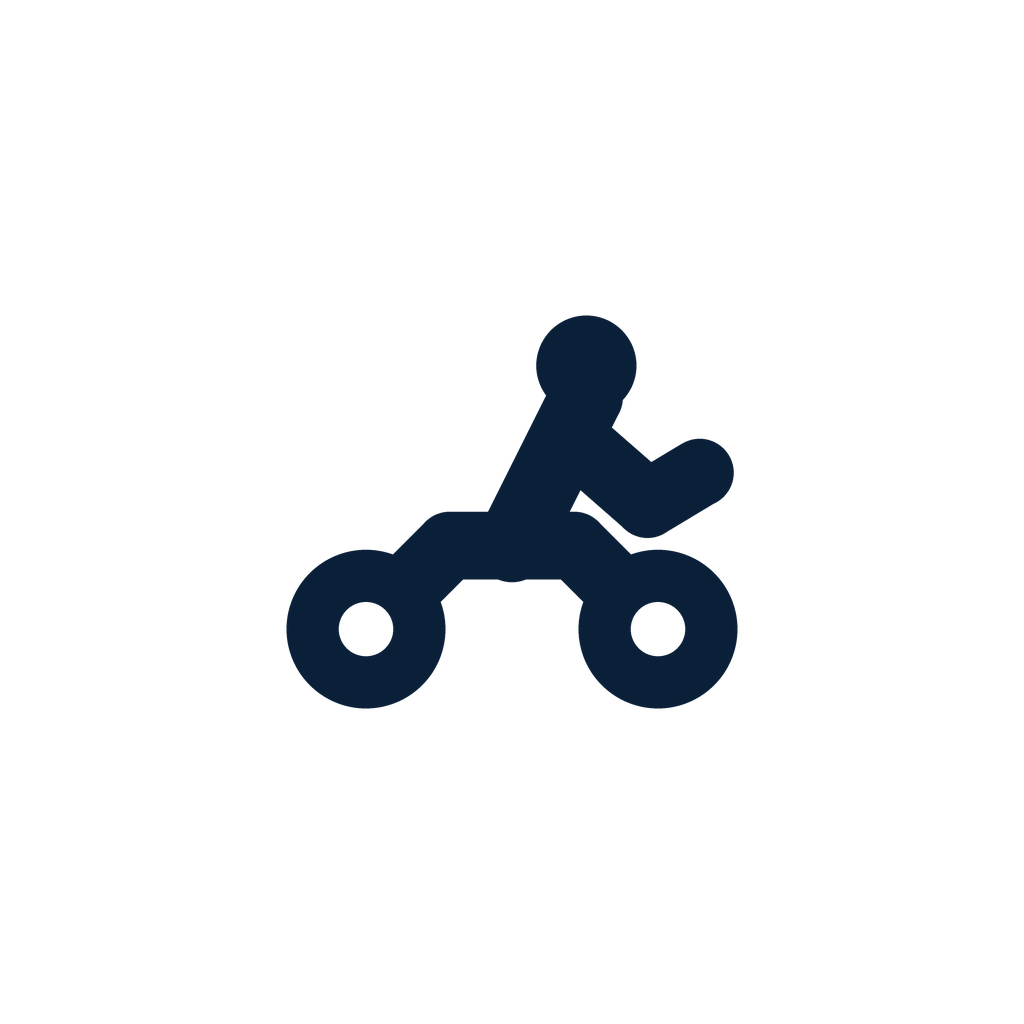
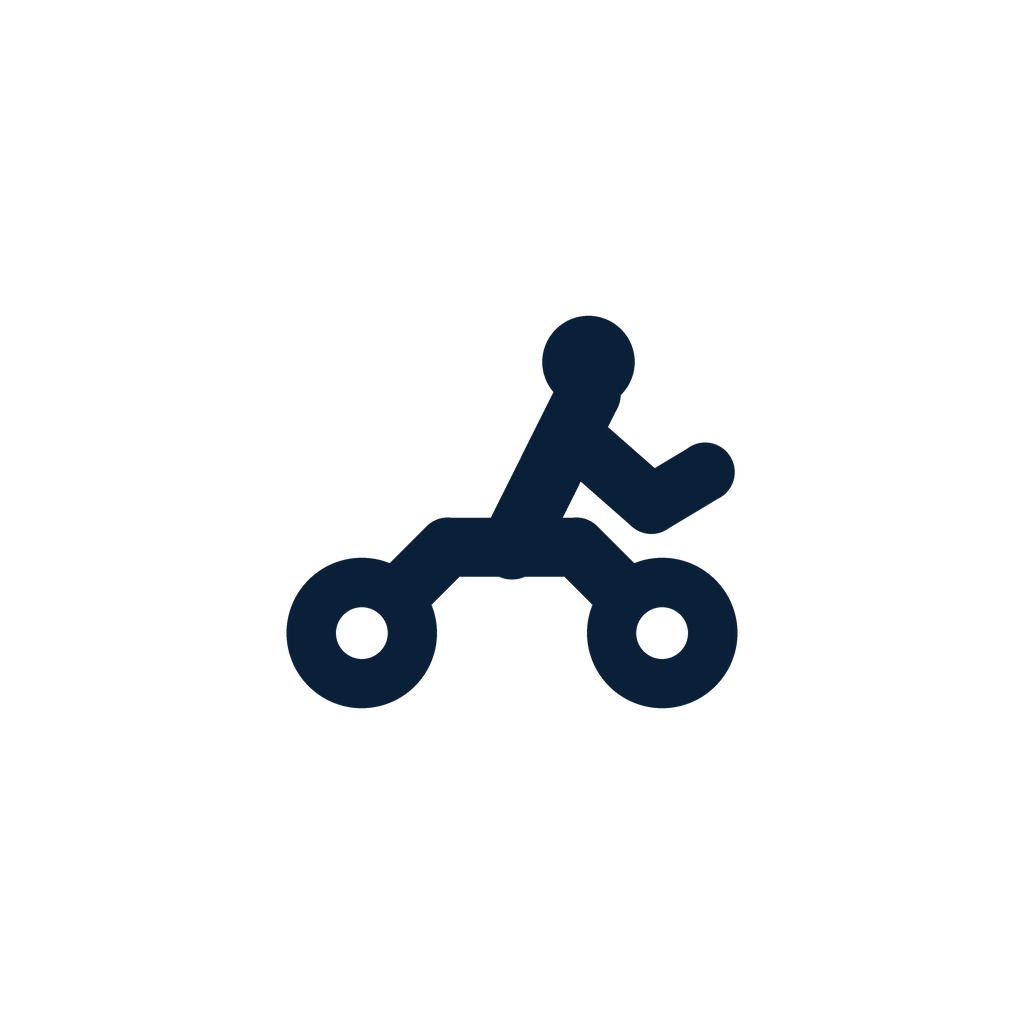
fix(brand): the mark goes to A3, the lighter weight, not just a smaller A4
I misread the instruction first time. "A3, 29%" is two things, and I only
did the second: A3 and A4 are the two stroke weights compared in the
"A3 Against A4" specimen on 29 August, not two sizes. A4 is
6.5 / 7.0 / 7.6 / 2.6 / 4.8 and is what shipped; A3 is
5.5 / 6.0 / 7.0 / 2.4 / 4.3, described there as "solid without being
heavy". The founder picked A3.

build_assets.py now cuts at A3 and all seven assets are regenerated and
installed across the three apps: icon, the three adaptive layers, both
splash marks and the favicon. The ink box moves from 43.2 x 37.66 to
42.0 x 36.56, so the website SVG gets the new viewBox along with the new
radii; the line coordinates are identical between the weights, only the
strokes and radii move.

Splash imageWidth stays at the 159 set earlier, which is the 29% half of
the same instruction.

NOT changed, and it needs a decision: components/SeirsLogoV2.tsx, which
renders the mark inside all three apps, is neither A3 nor A4. It is an
older drawing entirely: hollow wheels at r5 with crossed spoke lines,
where every other surface now uses solid wheels with punched hubs. So the
app header shows one okada and the splash behind it shows another.
Swapping it changes every screen, so it is the founder's call.

diff --git a/seirs-app/apps/seirs-website/src/components/SeirsLogo.tsx b/seirs-app/apps/seirs-website/src/components/SeirsLogo.tsx
@@ -72,14 +72,17 @@ function SeirsMark({
    * the same mark, which is the drift this file already suffers from with
    * its second navy.
    *
-   * Geometry is now identical to SeirsMarkBold in the apps: stroke 6.5,
-   * solid wheels r7.6 with r2.6 hubs, torso run to 15.94, head r4.8. The
+   * Geometry matches the cut assets: the A3 weight, stroke 5.5, solid
+   * wheels r7.0 with r2.4 hubs, torso 6.0, head r4.3. The founder compared
+   * A3 against A4 on a real phone on 2026-08-30 and took the lighter set;
+   * A4 was 6.5 / 7.0 / 7.6 / 2.6 / 4.8. Line coordinates are unchanged
+   * between the two weights, only the radii and stroke widths move. The
    * viewBox is cropped to the ink, which is why it is no longer 0 0 48 32
    * -- the stretched rider's head sits above y=0.
    */
-  const VB_X = 2.4, VB_Y = -6.06, VB_W = 43.2, VB_H = 37.66;
+  const VB_X = 3.0, VB_Y = -5.56, VB_W = 42.0, VB_H = 36.56;
   const height = size * (VB_H / VB_W);
-  const SW = 6.5;
+  const SW = 5.5;
 
   return (
     <svg
@@ -94,13 +97,13 @@ function SeirsMark({
         stroke={color} strokeWidth={SW} fill="none"
         strokeLinecap="round" strokeLinejoin="round"
       />
-      <circle cx={10} cy={24} r={7.6} fill={color} />
-      <circle cx={10} cy={24} r={2.6} fill={hubColor} />
-      <circle cx={38} cy={24} r={7.6} fill={color} />
-      <circle cx={38} cy={24} r={2.6} fill={hubColor} />
+      <circle cx={10} cy={24} r={7.0} fill={color} />
+      <circle cx={10} cy={24} r={2.4} fill={hubColor} />
+      <circle cx={38} cy={24} r={7.0} fill={color} />
+      <circle cx={38} cy={24} r={2.4} fill={hubColor} />
       <line x1={37} y1={12} x2={42} y2={9} stroke={color} strokeWidth={SW} strokeLinecap="round" />
-      <line x1={24} y1={16} x2={31.13} y2={1.74} stroke={color} strokeWidth={7} strokeLinecap="round" />
-      <circle cx={31.13} cy={-1.26} r={4.8} fill={color} />
+      <line x1={24} y1={16} x2={31.13} y2={1.74} stroke={color} strokeWidth={6} strokeLinecap="round" />
+      <circle cx={31.13} cy={-1.26} r={4.3} fill={color} />
       <line x1={29.35} y1={5.30} x2={37} y2={12} stroke={color} strokeWidth={SW} strokeLinecap="round" />
     </svg>
   );
